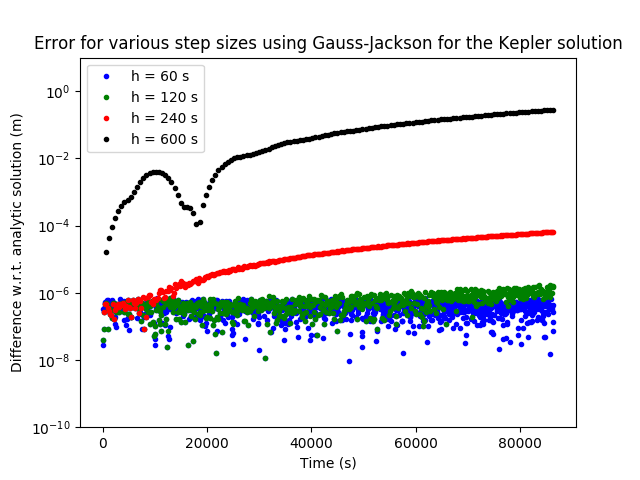
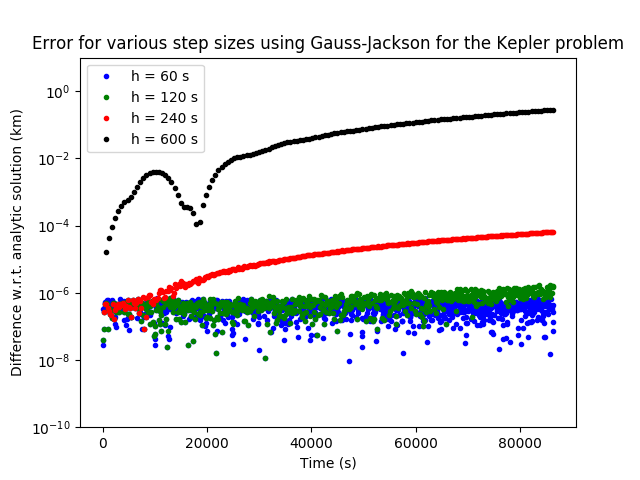
Correcting typos

Changed region(s): [[0.0312, 0.0625, 0.9688, 0.125], [0.0, 0.2188, 0.0312, 0.7812]]

diff --git a/example/KeplerExample.cpp b/example/KeplerExample.cpp
@@ -11,7 +11,7 @@ The initial coniditions are such that the unit mass follows a circular orbit at 
 */
 
 // Define the differential equation to be integrated
-void ode(const boost::array<double,4> &x, boost::array<double,4> &dxdt, double t){
+void ode(const boost::array<double,4> &x, boost::array<double,4> &dxdt, double time){
 	const double mu = 398600.4415; // Gravitational parameter G*Mass_{Earth} [km^3 s^-2]
 
 	double radius = sqrt(x[0]*x[0]+x[1]*x[1]);
@@ -30,7 +30,7 @@ void ode(const boost::array<double,4> &x, boost::array<double,4> &dxdt, double t
 
 int main()
 {	
-	// Defined the initial conditions which is at a radius of 10,000 km, initial velocity is calculated by sqrt(mu/radius)
+	// Define the initial conditions which is at a radius of 10,000 km, initial velocity is calculated by sqrt(mu/radius)
 	boost::array<double,4> state = {{10000.0,0.0,0.0,6.313481143553056}};
 	
 	// Run GaussJackson for 24 hours with a time-step of 60 seconds. Output is requested and saved to 'output.csv' but only saved for every 600 seconds

diff --git a/GaussJackson8.hpp b/GaussJackson8.hpp
@@ -19,7 +19,8 @@
     an RKF78 method in the ODEINT library. Based on the previous 8 points the
     next point is estimated, if the step is accepted then the state is updated, if
     not it is iterated again until it is within tolerence. 9 values of the y,
-    y' and y'' are stored internally.
+    y' and y'' are stored internally and shifted to make room for a new value while
+    keeping the array at a constant size.
 
 */
 
